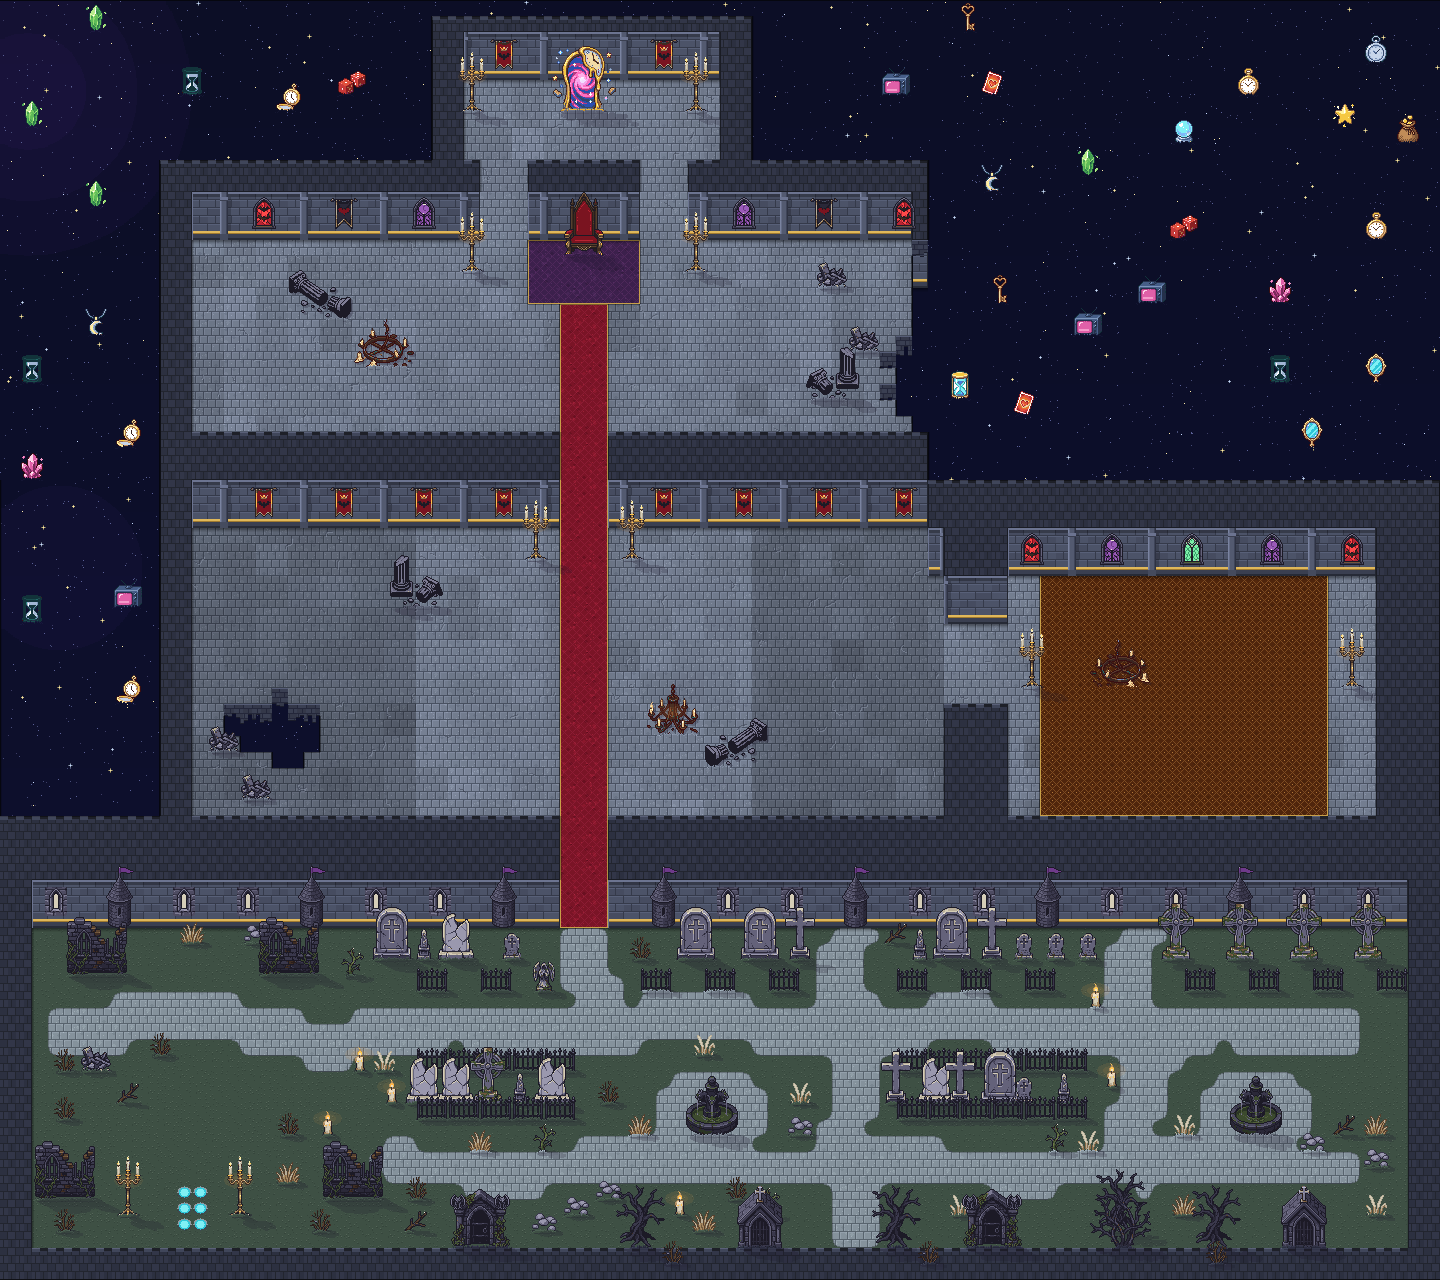
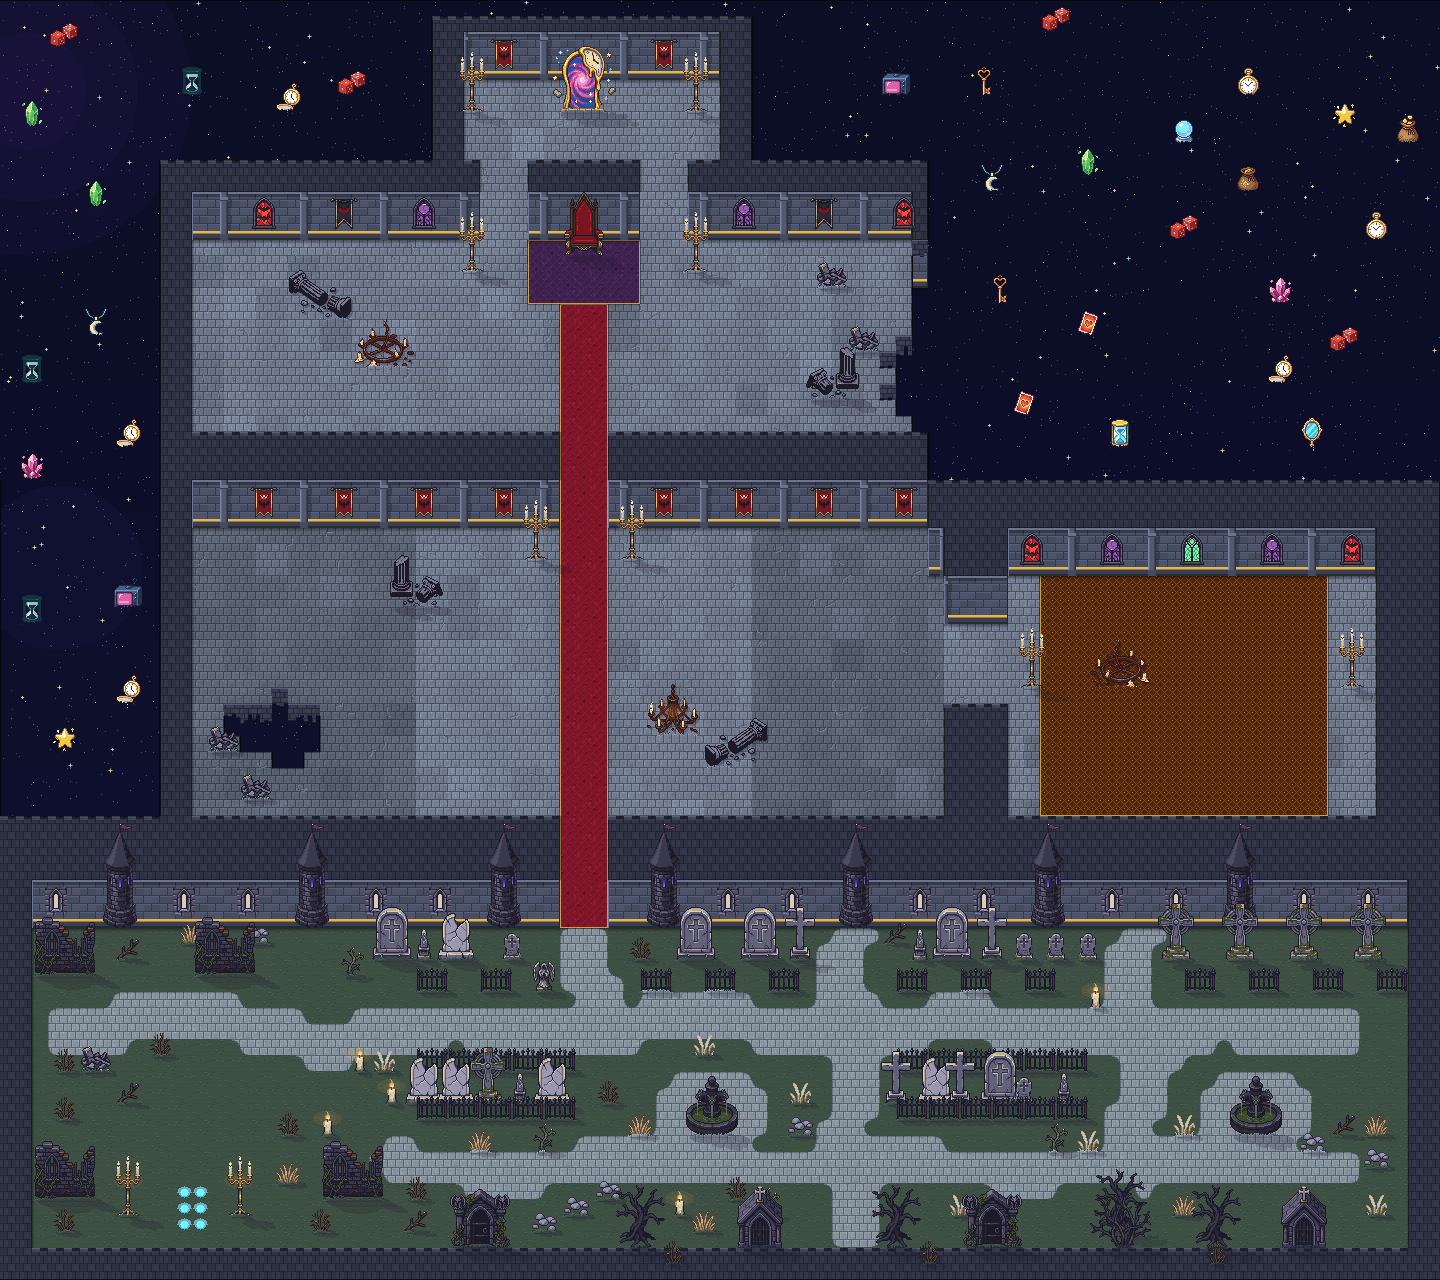
K32: Aussenmauer-Tuerme neu und groesser (PixelLab k32_turm, ~6.5 Kacheln, auf Mauerfarben umgefaerbt), Mauerreste nicht vor den Turmfuessen
Claude-Session: https://claude.ai/code/session_01SaoYHKhnro4LFcPJqjaPsq

diff --git a/tools/pixellab_objekte.py b/tools/pixellab_objekte.py
@@ -2043,6 +2043,10 @@ OBJEKTGRUPPEN_K21 = {   # Karte 21 (Digi-Egg Valley), Stil wie Karte 20 / Karte 
         'surreal dream portal standing on a stone floor: a tall twisted golden arch frame that melts and drips like a clock, with tiny floating stars and broken stones around it, inside a swirling violet and pink vortex with stars, ' + FR14,
         'surreal floating dream portal: an oval doorway of floating cracked stone pieces and golden clock gears hovering in a ring above a small stone base, inside a deep swirling violet vortex with tiny stars, ' + FR14,
     ]},
+    'k32_turm': {'size': 112, 'items': [   # Nutzer: Tuerme an der Aussenmauer neu und groesser
+        'tall slender gothic castle wall tower: round dark grey stone tower about 2 tiles wide and 6 tiles tall, narrow arched windows glowing faint violet, a tall pointed dark slate spire roof with a small purple pennant on top, stone base, ' + FR14,
+        'tall slender gothic stone watchtower for a castle wall: dark grey brick round tower, decorative ring of stones below a very tall pointed slate cone roof, two narrow purple glowing slit windows, ' + FR14,
+    ]},
     'k31_muell': {'size': 32, 'items': [
         'small pile of fallen golden yellow ginkgo leaves lying flat on the ground, seen from above, classic 2D handheld RPG style',
         'small pile of fallen brown and orange autumn leaves lying flat on the ground, seen from above, classic 2D handheld RPG style',

diff --git a/tools/karte32_objekte.py b/tools/karte32_objekte.py
@@ -121,7 +121,7 @@ def main():
         for s in (-1, 1):
             x = ACHSE + s * dx * T
             if T <= x <= Wp - T:
-                o = setze(K9 + 'turm/01', x, fuss(57), {'an_wand': True, 'kein_schatten': True,
+                o = setze('karte32/turm_k/00', x, fuss(57), {'an_wand': True, 'kein_schatten': True,
                                                         'keine_verdeckung': True}, raster=False, pruefen=False)
     # ------------------------------------------------------------------ Thronturm und grosser Saal
     paar(K9 + 'moebel/01', 7 * T, fuss(6), {'anim': 'kerzen'})                       # Kandelaber neben dem Thron
@@ -170,7 +170,7 @@ def main():
         if o:
             setze(K9 + rnd.choice(['k8/mittel/14', 'k8/klein/48']), (x + 1) * T + 8, fuss(y + 1),
                   {'begleiter': True, 'anim': 'wehen'}, pruefen=False)
-    for (x, y) in ((5, 60), (18, 60), (4, 74), (21, 74)):            # Mauerreste
+    for (x, y) in ((3, 60), (13, 60), (4, 74), (21, 74)):    # Mauerreste (nicht vor den Turmfuessen)            # Mauerreste
         setze(K9 + 'turm/15', x * T + 8, fuss(y), {})
     for (x, y) in ((5, 66), (20, 66)):
         setze(K9 + 'wand/45', x * T + 8, fuss(y), {})
